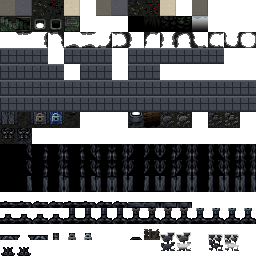
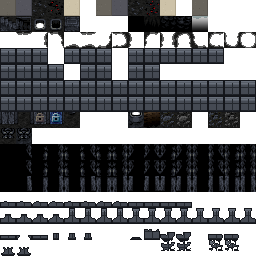
feat(autochess): 用脚本重画墙壁与地板，清掉全部苔藓绿
- 新增 tools/gen_arena_tiles.py：以 tiles_moss.png 为底，用 Pillow 重绘
  * 地板：我方浅木色 / 敌方冷灰 / 中线深灰，右下 1px 接缝 + 噪点
  * 墙壁：石砖主体 + 顶部受光 + 砖缝 + 深色轮廓（沿原始 alpha 剪影描边）
  * 墙檐/悬边（第 12~15 行）同套画法
  * 最后全局扫一遍，把残余的苔藓绿像素映射成蓝灰
- 之前的 PowerShell 像素处理已经不可维护，改用 Python + Pillow 重新生成
- 金边和外围网格保持撤除状态

diff --git a/tools/gen_arena_tiles.py b/tools/gen_arena_tiles.py
@@ -1,0 +1,160 @@
+"""Generate core/src/main/assets/environment/tiles_arena.png.
+
+Source: tiles_moss.png (SPD moss tileset, 256x256, 16x16 frames).
+We repaint floor frames (row 0) and wall frames (rows 3..6 and 12..15)
+to a clean stone / TFT-ish look while keeping the original silhouettes.
+"""
+
+from PIL import Image
+
+REPO = r"E:\work-2\Radish_Pixel_Dungeon"
+SRC = REPO + r"\core\src\main\assets\environment\tiles_moss.png"
+DST = REPO + r"\core\src\main\assets\environment\tiles_arena.png"
+
+TILE = 16
+COLS = 16
+
+img = Image.open(SRC).convert("RGBA")
+px = img.load()
+
+# ---------- palettes ----------
+FLOOR_PLAYER = (205, 194, 168, 255)
+FLOOR_PLAYER_SEAM = (176, 165, 140, 255)
+FLOOR_ENEMY = (84, 84, 92, 255)
+FLOOR_ENEMY_SEAM = (66, 66, 74, 255)
+FLOOR_MID = (104, 100, 92, 255)
+FLOOR_MID_SEAM = (86, 82, 76, 255)
+FLOOR_TEX_LIGHT = 6
+
+WALL_BODY = (69, 74, 83, 255)
+WALL_BODY_DARK = (56, 60, 68, 255)
+WALL_CAP = (104, 111, 122, 255)
+WALL_CAP_DARK = (88, 94, 104, 255)
+WALL_MORTAR = (36, 40, 46, 255)
+WALL_OUTLINE = (20, 22, 27, 255)
+WALL_SHADOW = (30, 33, 39, 255)
+
+
+def frame_xy(frame):
+    return (frame % COLS) * TILE, (frame // COLS) * TILE
+
+
+def alpha_mask(x0, y0):
+    return [[px[x0 + x, y0 + y][3] > 8 for x in range(TILE)] for y in range(TILE)]
+
+
+def paint_floor(frame, base, seam, tex=6):
+    x0, y0 = frame_xy(frame)
+    for y in range(TILE):
+        for x in range(TILE):
+            px[x0 + x, y0 + y] = base
+    # seams: right + bottom
+    for x in range(TILE):
+        px[x0 + x, y0 + TILE - 1] = seam
+    for y in range(TILE):
+        px[x0 + TILE - 1, y0 + y] = seam
+    # deterministic little speckles
+    seed = frame * 977 + 13
+    for i in range(10):
+        seed = (seed * 1103515245 + 12345) & 0x7FFFFFFF
+        sx = 1 + seed % 14
+        seed = (seed * 1103515245 + 12345) & 0x7FFFFFFF
+        sy = 1 + seed % 14
+        r, g, b, a = px[x0 + sx, y0 + sy]
+        if i % 3 == 0:
+            px[x0 + sx, y0 + sy] = (min(255, r + tex), min(255, g + tex), min(255, b + tex), 255)
+        else:
+            px[x0 + sx, y0 + sy] = (max(0, r - tex), max(0, g - tex), max(0, b - tex), 255)
+
+
+def paint_wall(frame, overhang=False):
+    x0, y0 = frame_xy(frame)
+    mask = alpha_mask(x0, y0)
+    if not any(any(row) for row in mask):
+        return
+    # 1) body + top cap
+    for y in range(TILE):
+        for x in range(TILE):
+            if not mask[y][x]:
+                px[x0 + x, y0 + y] = (0, 0, 0, 0)
+                continue
+            if y <= 1:
+                col = WALL_CAP
+            elif y == 3:
+                col = WALL_CAP
+            elif y == 2:
+                col = WALL_CAP_DARK
+            elif y == TILE - 2:
+                col = WALL_SHADOW
+            else:
+                col = WALL_BODY
+            px[x0 + x, y0 + y] = col
+
+    # 2) brick mortar
+    for x in range(TILE):
+        if mask[7][x]:
+            px[x0 + x, y0 + 7] = WALL_MORTAR
+        if mask[15][x]:
+            px[x0 + x, y0 + 15] = WALL_MORTAR
+    offset = 0 if (frame % 2 == 0) else 8
+    for i in range(2):
+        jx = (offset + i * 8) % TILE
+        for y in range(3, 7):
+            if mask[y][jx]:
+                px[x0 + jx, y0 + y] = WALL_MORTAR
+        for y in range(8, 15):
+            if mask[y][jx]:
+                px[x0 + jx, y0 + y] = WALL_MORTAR
+
+    # 3) crisp silhouette outline (any opaque pixel touching transparency)
+    edges = []
+    for y in range(TILE):
+        for x in range(TILE):
+            if not mask[y][x]:
+                continue
+            left = x == 0 or not mask[y][x - 1]
+            right = x == TILE - 1 or not mask[y][x + 1]
+            up = y == 0 or not mask[y - 1][x]
+            down = y == TILE - 1 or not mask[y + 1][x]
+            if left or right or up or down:
+                edges.append((x, y))
+    for x, y in edges:
+        px[x0 + x, y0 + y] = WALL_OUTLINE
+
+    # 4) warm inner highlight under the cap (very subtle)
+    if not overhang:
+        for x in range(TILE):
+            if mask[4][x] and px[x0 + x, y0 + 4] == WALL_BODY:
+                px[x0 + x, y0 + 4] = WALL_CAP_DARK
+
+
+# ---------- floors ----------
+paint_floor(4, FLOOR_PLAYER, FLOOR_PLAYER_SEAM)
+paint_floor(10, FLOOR_PLAYER, FLOOR_PLAYER_SEAM)
+paint_floor(1, FLOOR_ENEMY, FLOOR_ENEMY_SEAM)
+paint_floor(7, FLOOR_ENEMY, FLOOR_ENEMY_SEAM)
+for f in (0, 6, 12):
+    paint_floor(f, FLOOR_MID, FLOOR_MID_SEAM)
+
+# ---------- walls ----------
+for row in (3, 4, 5, 6):
+    for col in range(COLS):
+        paint_wall(row * COLS + col)
+for row in (12, 13, 14, 15):
+    for col in range(COLS):
+        paint_wall(row * COLS + col, overhang=True)
+
+
+# ---------- kill any leftover moss green anywhere ----------
+for y in range(img.height):
+    for x in range(img.width):
+        r, g, b, a = px[x, y]
+        if a <= 8:
+            continue
+        if g > r * 1.03 and g > b * 1.03:
+            lum = 0.3 * r + 0.6 * g + 0.1 * b
+            px[x, y] = (int(min(255, lum * 0.80)), int(min(255, lum * 0.86)),
+                        int(min(255, lum * 1.00)), a)
+
+img.save(DST)
+print("saved", DST)
